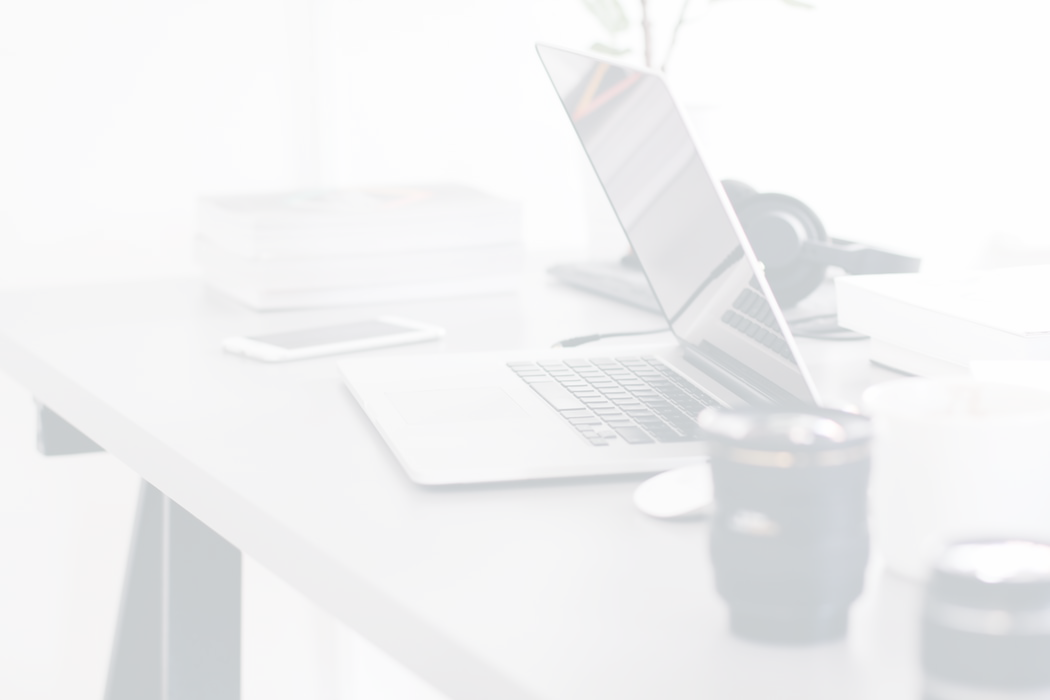
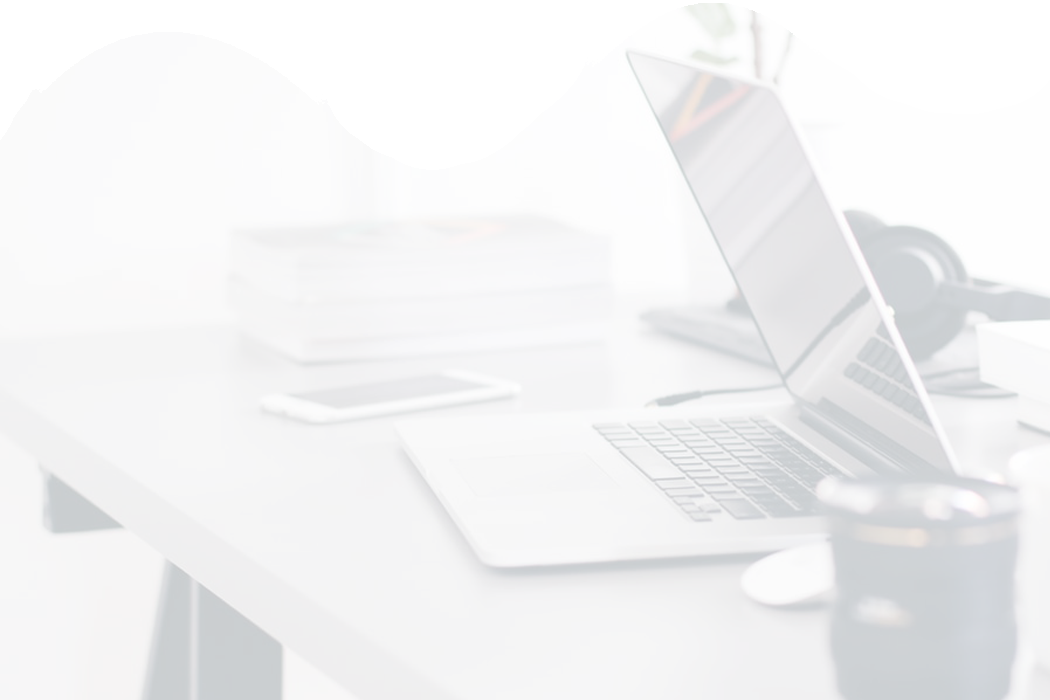
Added skills section

diff --git a/style.css b/style.css
@@ -32,6 +32,41 @@ body
     height: 60px;
     padding-left: 5px;
 }
+@font-face {
+    font-family: 'DIN 30640 Std';
+    src: url('fonts/DINNeuzeitGroteskStd-BdCond/DINNeuzeitGroteskStd-BdCond.eot');
+    src: url('fonts/DINNeuzeitGroteskStd-BdCond/DINNeuzeitGroteskStd-BdCond.eot?#iefix') format('embedded-opentype'),
+         url('fonts/DINNeuzeitGroteskStd-BdCond/DINNeuzeitGroteskStd-BdCond.woff2') format('woff2'),
+         url('fonts/DINNeuzeitGroteskStd-BdCond/DINNeuzeitGroteskStd-BdCond.woff') format('woff'),
+         url('fonts/DINNeuzeitGroteskStd-BdCond/DINNeuzeitGroteskStd-BdCond.ttf')  format('truetype'),
+         url('fonts/DINNeuzeitGroteskStd-BdCond/DINNeuzeitGroteskStd-BdCond.svg#DIN 30640 Std') format('svg');
+}
+@font-face {
+    font-family: 'Neoteric-Bold';
+    src: url('fonts/Neoteric-Bold/Neoteric-Bold.eot');
+    src: url('fonts/Neoteric-Bold/Neoteric-Bold?#iefix') format('embedded-opentype'),
+         url('fonts/Neoteric-Bold/Neoteric-Bold.woff2') format('woff2'),
+         url('fonts/Neoteric-Bold/Neoteric-Bold.woff') format('woff'),
+         url('fonts/Neoteric-Bold/Neoteric-Bold.ttf')  format('truetype'),
+         url('fonts/Neoteric-Bold/Neoteric-Bold.svg#DIN 30640 Std') format('svg');
+}
+@font-face {
+    font-family: 'Bebas-Neue-Pro-Book';
+    src: url('fonts/Bebas-Neue-Pro-Book/Bebas-Neue-Pro-Book.eot');
+    src: url('fonts/Bebas-Neue-Pro-Book/Bebas-Neue-Pro-Book?#iefix') format('embedded-opentype'),
+         url('fonts/Bebas-Neue-Pro-Book/Bebas-Neue-Pro-Book.woff2') format('woff2'),
+         url('fonts/Bebas-Neue-Pro-Book/Bebas-Neue-Pro-Book.woff') format('woff'),
+         url('fonts/Bebas-Neue-Pro-Book/Bebas-Neue-Pro-Book.ttf')  format('truetype'),
+         url('fonts/Bebas-Neue-Pro-Book/Bebas-Neue-Pro-Book.svg#DIN 30640 Std') format('svg');
+}
+@font-face {
+    font-family: 'Bahij_Janna-Regular';
+    src: url('fonts/Bahij_Janna-Regular/Bahij_Janna-Regular.eot');
+    src: url('fonts/Bahij_Janna-Regular/Bahij_Janna-Regular?#iefix') format('embedded-opentype'),
+         url('fonts/Bahij_Janna-Regular/Bahij_Janna-Regular.woff') format('woff'),
+         url('fonts/Bahij_Janna-Regular/Bahij_Janna-Regular.ttf')  format('truetype'),
+         url('fonts/Bahij_Janna-Regular/Bahij_Janna-Regular.svg#DIN 30640 Std') format('svg');
+}
 #landing-title
 {
     padding-top: 130px;
@@ -130,7 +165,9 @@ body
 }
 .tlpic
 {
-    padding-right: 30px;
+	height: 800px;
+	width: 1400px;
+	padding-right: 30px;
 }
 .m1
 {
@@ -204,39 +241,22 @@ body
     left: 28%;
     height: 50px;
 }
-
-@font-face {
-    font-family: 'DIN 30640 Std';
-    src: url('fonts/DINNeuzeitGroteskStd-BdCond/DINNeuzeitGroteskStd-BdCond.eot');
-    src: url('fonts/DINNeuzeitGroteskStd-BdCond/DINNeuzeitGroteskStd-BdCond.eot?#iefix') format('embedded-opentype'),
-         url('fonts/DINNeuzeitGroteskStd-BdCond/DINNeuzeitGroteskStd-BdCond.woff2') format('woff2'),
-         url('fonts/DINNeuzeitGroteskStd-BdCond/DINNeuzeitGroteskStd-BdCond.woff') format('woff'),
-         url('fonts/DINNeuzeitGroteskStd-BdCond/DINNeuzeitGroteskStd-BdCond.ttf')  format('truetype'),
-         url('fonts/DINNeuzeitGroteskStd-BdCond/DINNeuzeitGroteskStd-BdCond.svg#DIN 30640 Std') format('svg');
+#skills
+{
+	position: relative;	
 }
-@font-face {
+#skills-text
+{
+	position: absolute;
+    top: 15%;
+    left: 10%;
     font-family: 'Neoteric-Bold';
-    src: url('fonts/Neoteric-Bold/Neoteric-Bold.eot');
-    src: url('fonts/Neoteric-Bold/Neoteric-Bold?#iefix') format('embedded-opentype'),
-         url('fonts/Neoteric-Bold/Neoteric-Bold.woff2') format('woff2'),
-         url('fonts/Neoteric-Bold/Neoteric-Bold.woff') format('woff'),
-         url('fonts/Neoteric-Bold/Neoteric-Bold.ttf')  format('truetype'),
-         url('fonts/Neoteric-Bold/Neoteric-Bold.svg#DIN 30640 Std') format('svg');
+    font-size: 40px;
+    color: #524E4B;   
 }
-@font-face {
-    font-family: 'Bebas-Neue-Pro-Book';
-    src: url('fonts/Bebas-Neue-Pro-Book/Bebas-Neue-Pro-Book.eot');
-    src: url('fonts/Bebas-Neue-Pro-Book/Bebas-Neue-Pro-Book?#iefix') format('embedded-opentype'),
-         url('fonts/Bebas-Neue-Pro-Book/Bebas-Neue-Pro-Book.woff2') format('woff2'),
-         url('fonts/Bebas-Neue-Pro-Book/Bebas-Neue-Pro-Book.woff') format('woff'),
-         url('fonts/Bebas-Neue-Pro-Book/Bebas-Neue-Pro-Book.ttf')  format('truetype'),
-         url('fonts/Bebas-Neue-Pro-Book/Bebas-Neue-Pro-Book.svg#DIN 30640 Std') format('svg');
-}
-@font-face {
-    font-family: 'Bahij_Janna-Regular';
-    src: url('fonts/Bahij_Janna-Regular/Bahij_Janna-Regular.eot');
-    src: url('fonts/Bahij_Janna-Regular/Bahij_Janna-Regular?#iefix') format('embedded-opentype'),
-         url('fonts/Bahij_Janna-Regular/Bahij_Janna-Regular.woff') format('woff'),
-         url('fonts/Bahij_Janna-Regular/Bahij_Janna-Regular.ttf')  format('truetype'),
-         url('fonts/Bahij_Janna-Regular/Bahij_Janna-Regular.svg#DIN 30640 Std') format('svg');
+.skills-img
+{
+	height: 800px;
+	width: 1400px;
+	padding-top: -150px;
 }

diff --git a/index.html b/index.html
@@ -71,7 +71,7 @@ Currently developing skills in Internet of Things</p>
 </div>
 </section>
 <section id = "timeline">
-<img src = "images/timeline.png" height = 800px width = 1400px class = "tlpic">
+<img src = "images/timeline.png" class = "tlpic">
 <p id = "edu-text">EDUCATION</p>
 <img src = "images/m1.png" class = "m1">
 <p class = "ryan">Ryan International School</p>
@@ -82,6 +82,10 @@ Currently developing skills in Internet of Things</p>
 <img src = "images/m3.png" class = "m3">
 <p class = "vit">Vellore Institute<br>of Technology</p>
 <p class = "vit-sub">Under Graduate</p>
+</section>
+<section id = "skills">
+<p id = "skills-text">SKILLS</p>
+<img src = "images/bg2.png" class = "skills-img">
 </section>
 </body>
 <html>
